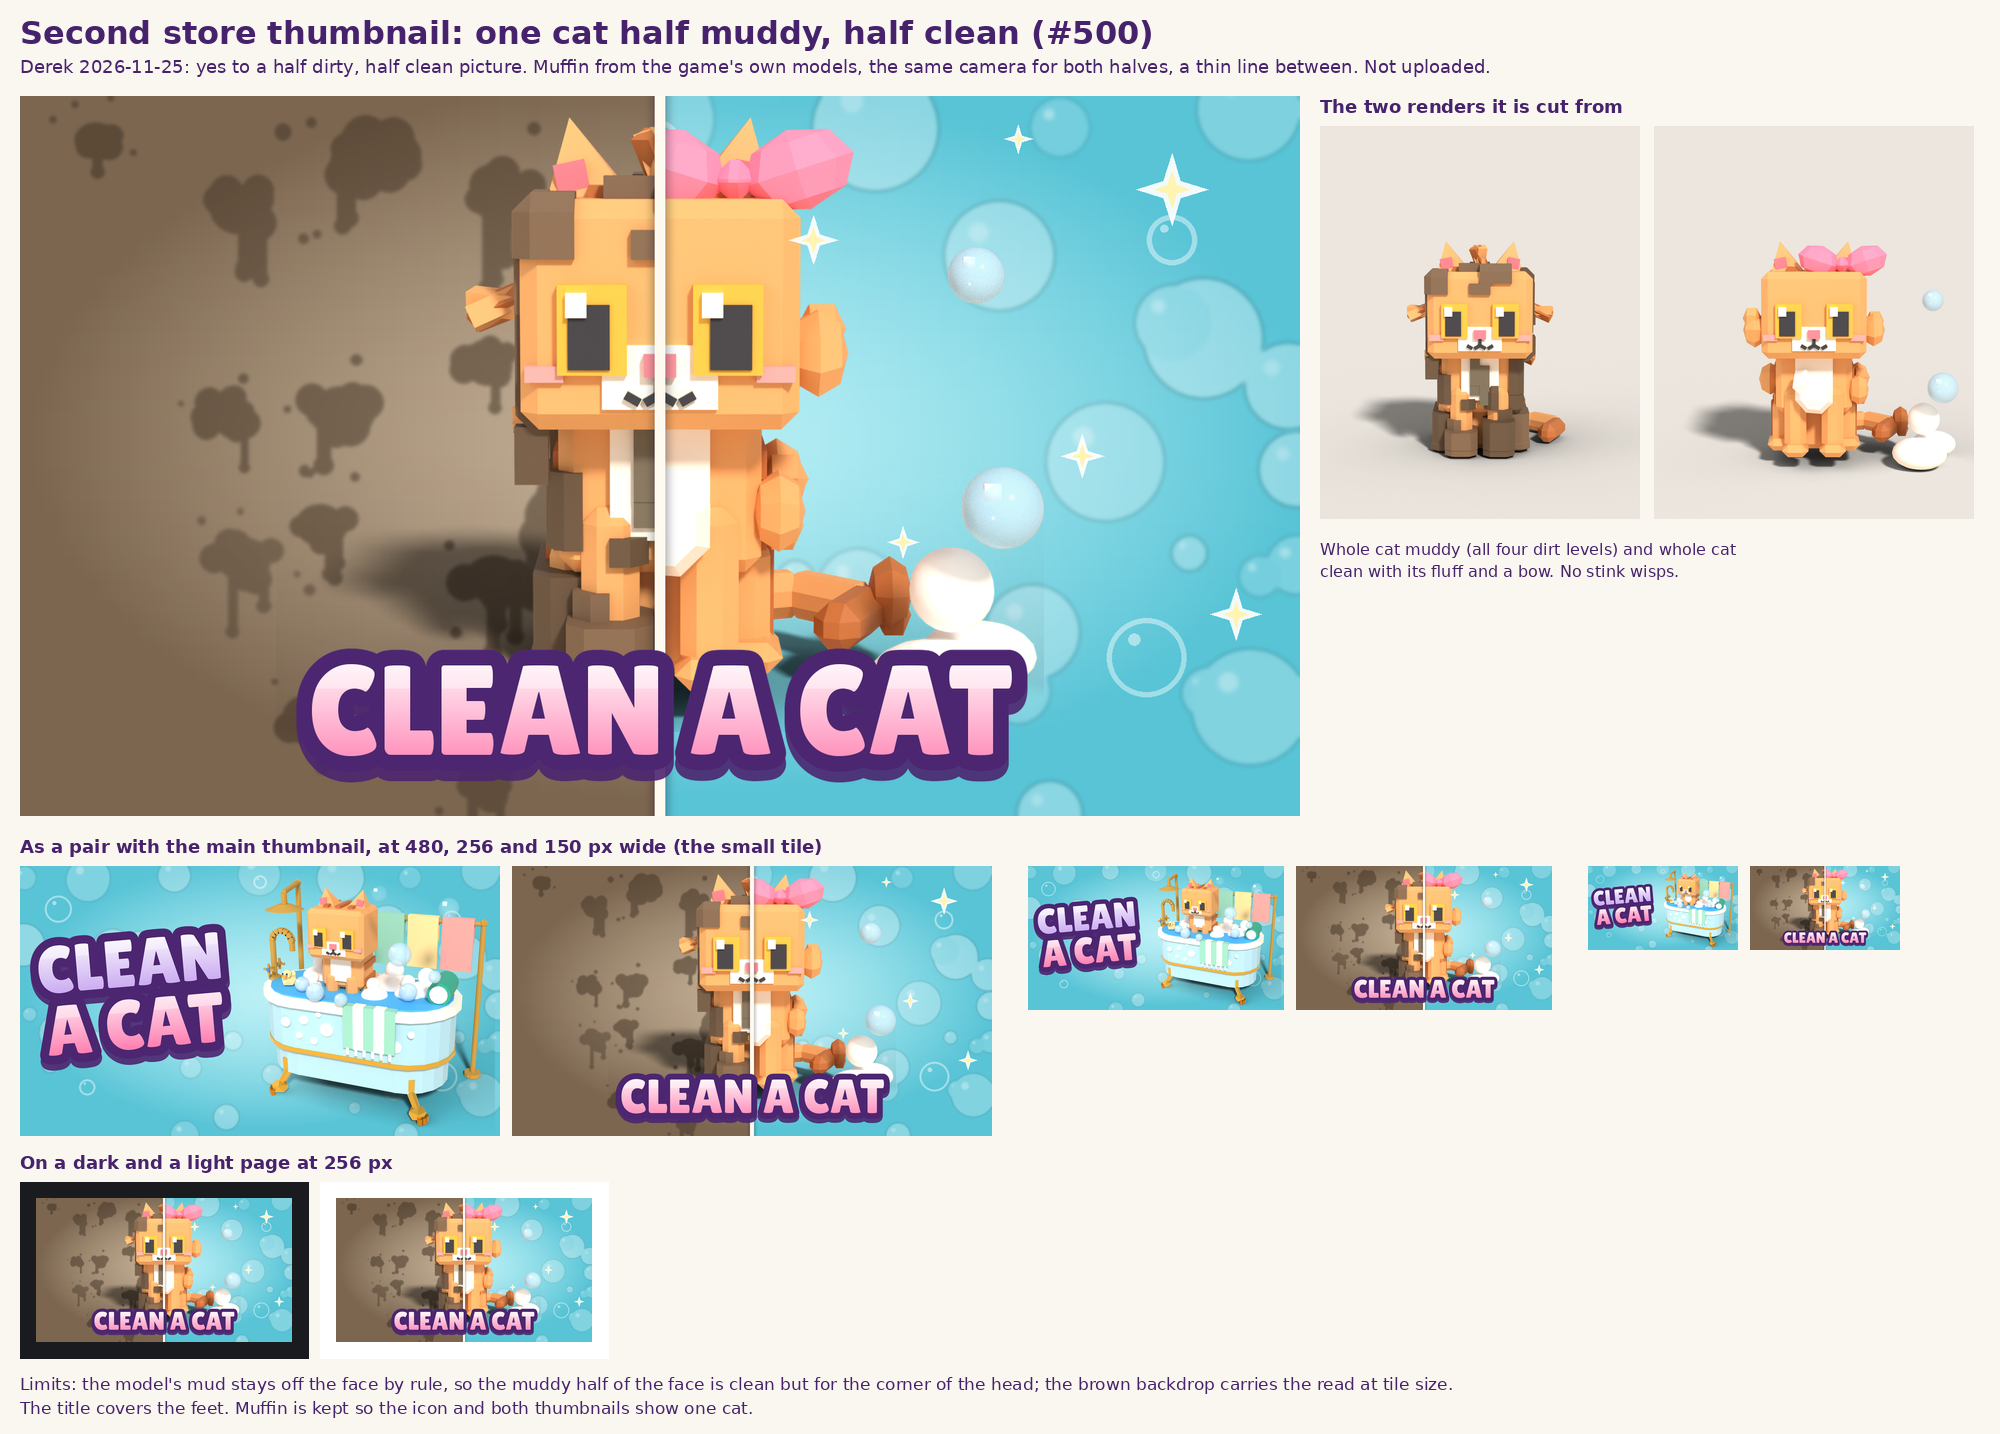
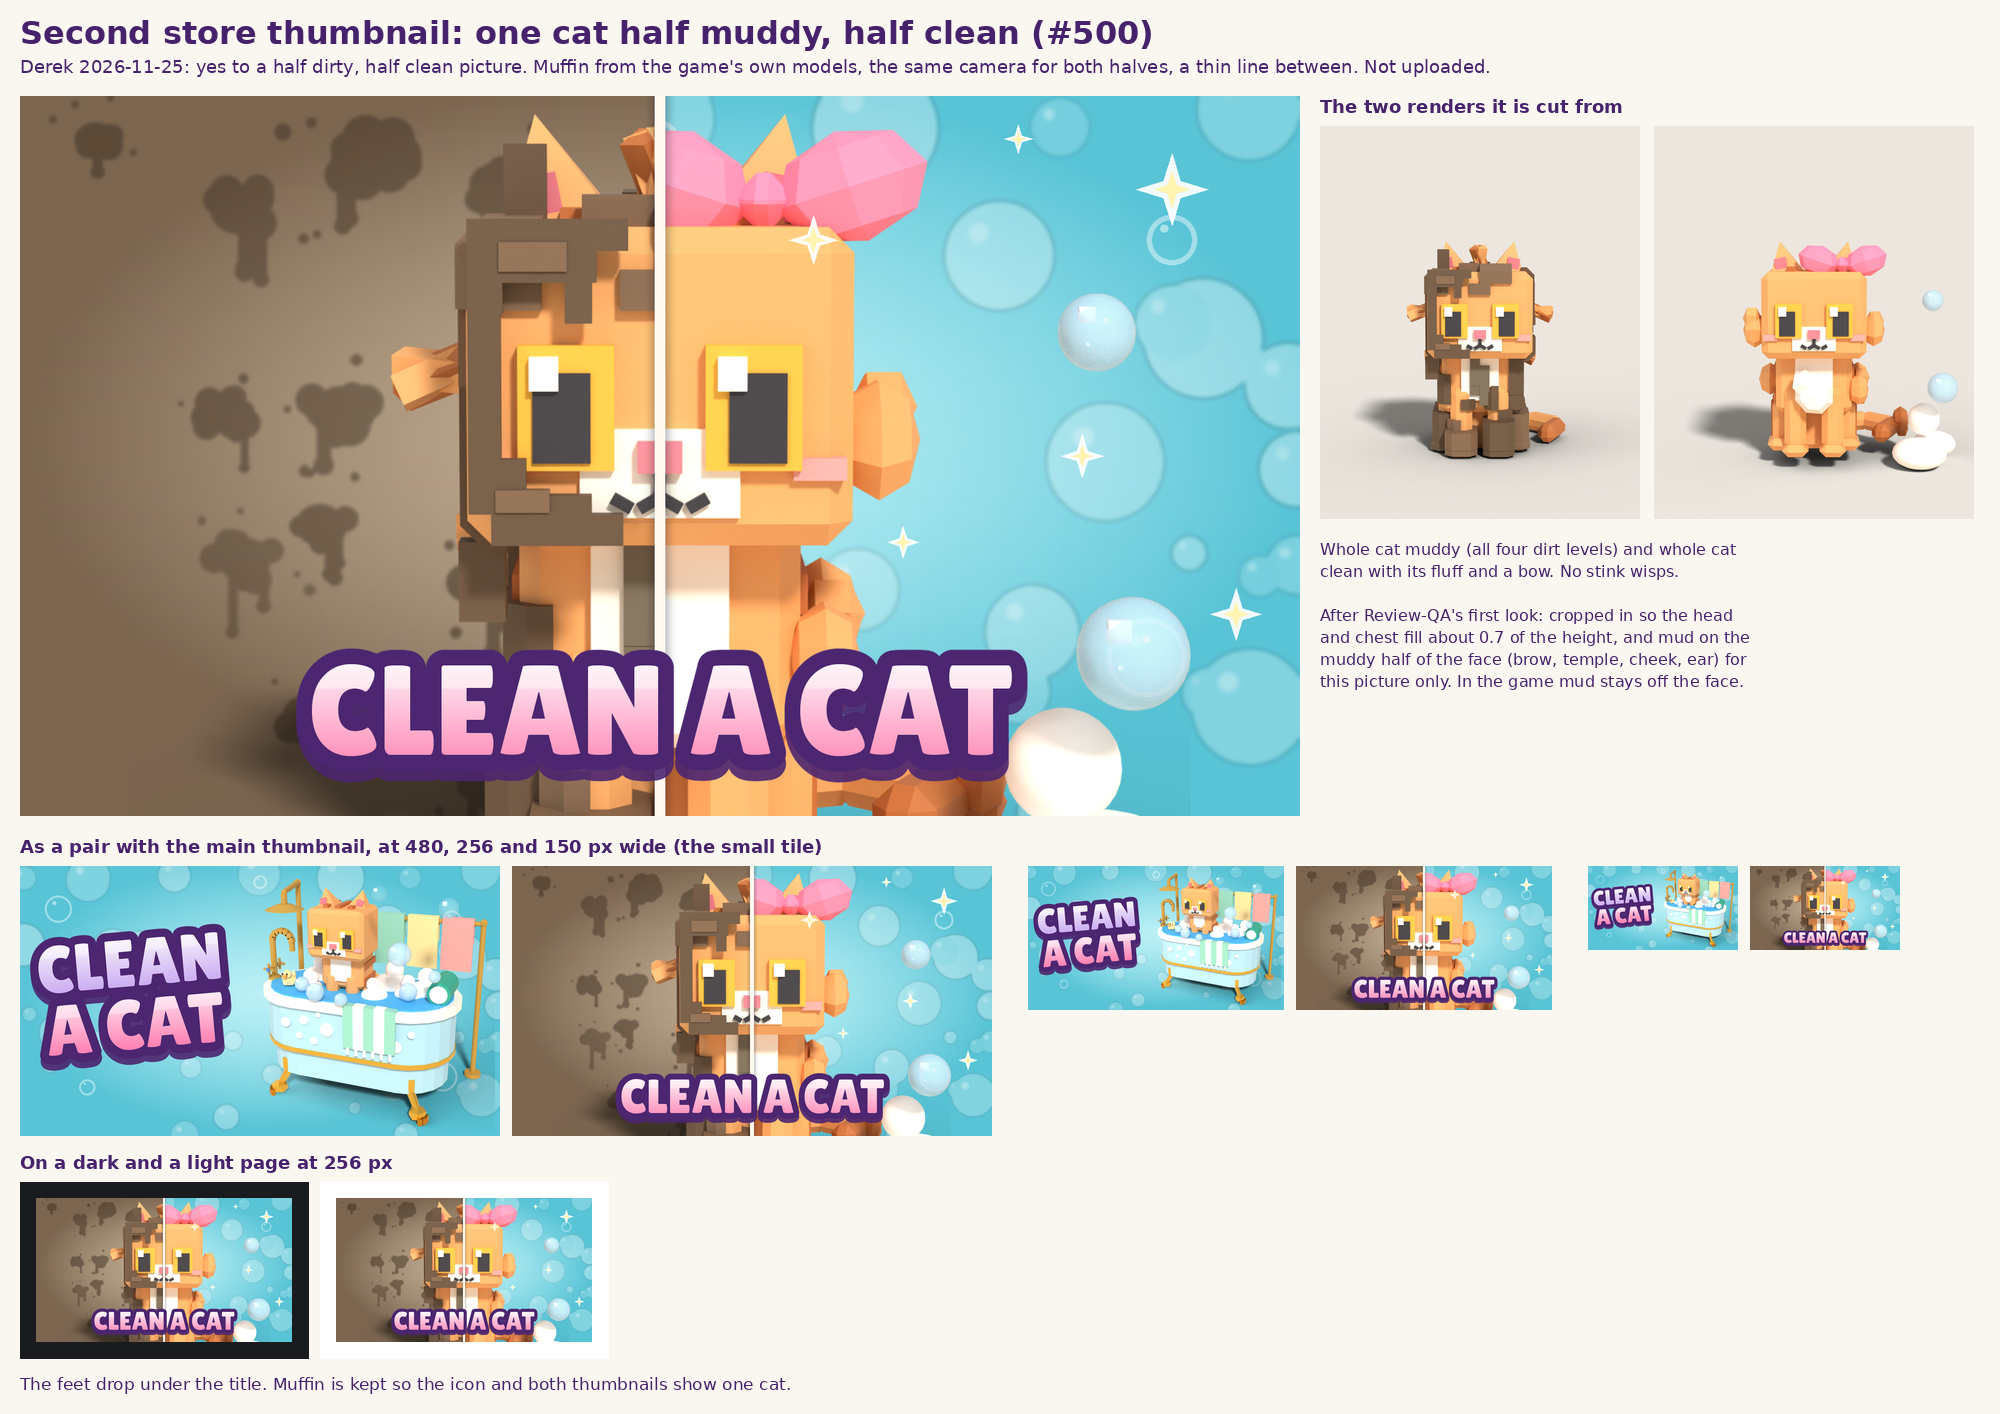
Split thumbnail: closer crop and mud on the muddy half of the face (#500)
Review-QA's two fixes: the head and chest fill about 0.7 of the height with
the feet under the title, and store-only mud patches on the brow, temple,
cheek and ear of the muddy half.

Claude-Session: https://claude.ai/code/session_01DW2up3E6M21fYJtCcCtEdr

diff --git a/assets/clean-a-cat/blender/store_art.py b/assets/clean-a-cat/blender/store_art.py
@@ -473,6 +473,36 @@ def thumb_queue(mat, out, res):
     return render(objs, objs, out, res, az=4, el=12, margin=0.98, lens=45)
 
 
+def _face_mud(mat, cat):
+    """Mud on the muddy half of the face, for the split thumbnail only (Review-QA on #500). In the game mud stays
+    off the face so the cat reads while it is washed; in this picture a clean face weakens the split. Flat stepped
+    splats in the model's two mud shades on the cat's right (-X) half: over the brow, down the temple beside the eye,
+    across the cheek under it, and a smear on the ear. The eye stays clear. No two patches overlap."""
+    part = {k: next(o for o in cat if o.name.endswith(k)) for k in ("_Head", "_Eye2", "_EarR")}
+    (hlo, hhi), (elo, ehi), (rlo, rhi) = (common.bounds([part[k]]) for k in ("_Head", "_Eye2", "_EarR"))
+    y, t = hlo.y - 0.012, 0.035                           # just proud of the face
+    b = Builder()
+
+    def patch(x0, x1, z0, z1, sw="mud", proud=0.0):
+        b.box(((x0 + x1) / 2, y - proud, (z0 + z1) / 2), (x1 - x0, t, z1 - z0), sw, bevel=False)
+
+    xe, top, bot = hlo.x + 0.012, hhi.z - 0.015, hlo.z + 0.02    # the face's outer edge, top and bottom
+    c = 0.07                                               # one step of a splat
+    patch(xe, -0.07, top - c, top)                                         # the brow: three steps in from the corner
+    patch(xe, -0.14, top - 2 * c, top - c)
+    patch(xe, elo.x - 0.03, top - 3 * c, top - 2 * c)
+    patch(-0.21, -0.15, top - 2 * c - 0.09, top - 2 * c)                   # a short drip over the eye
+    patch(xe, elo.x - 0.035, elo.z + 0.03, top - 3 * c)                    # down the temple beside the eye
+    patch(xe, elo.x + 0.02, elo.z - 0.05, elo.z + 0.03)                    # round under its corner
+    patch(xe, ehi.x - 0.05, bot + c, elo.z - 0.05)                         # the cheek: two steps
+    patch(xe + 0.05, ehi.x + 0.02, bot, bot + c)
+    patch(xe + 0.07, xe + 0.22, top - 0.115, top - 0.05, "mud_wet", 0.006)  # wet shine
+    patch(xe + 0.06, xe + 0.18, bot + 0.075, bot + 0.125, "mud_wet", 0.006)
+    ex = (rlo.x + rhi.x) / 2                              # outer edge; its outline stays a cat's ear
+    b.box((ex - 0.075, rlo.y - 0.008, rlo.z + 0.14), (0.1, 0.03, 0.2), "mud", bevel=False)    # a smear up the ear's
+    return _fresh([b.finalize("FaceMud", mat, bevel=0)])
+
+
 def _split(mat, out, res, state):
     """One half of the split thumbnail (#500): Muffin sitting, seen straight on and close, with the camera on its
     middle line. `state` 'dirty' is the whole cat muddy, 'clean' the whole cat fluffy with a bow by its ear, lather
@@ -486,14 +516,15 @@ def _split(mat, out, res, state):
     half = max(-lo.x, hi.x) + 0.5
     focus = (Vector((-half, lo.y, 0.0)), Vector((half, hi.y, hi.z + 0.4)))
     objs = list(cat)
+    if state == "dirty":
+        objs += _face_mud(mat, cat)
     if state == "clean":
         spec = cats.ROSTER["Muffin"]
         k = cats.scale_of(spec, "sit")
-        h = cats.dims(spec, "sit")["head"]
         at = Vector(cats.joints(spec, "sit")["Head"]) + Vector(cats.bow_at(spec, "sit")) * k
-        at.x += h["s"][0] * k * 0.27                     # by the ear on the clean half: a whole bow, not half of one
-        bow = props.build_bow(list(props.BOWS)[0], mat)
-        _move(bow, at, 1.0, -8)
+        at.x += cats.dims(spec, "sit")["head"]["s"][0] * k * 0.27   # by the ear on the clean half: a whole bow, not
+        bow = props.build_bow(list(props.BOWS)[0], mat)             # half of one (tipped out on the corner like a
+        _move(bow, at, 1.0, -8)                                     # special cat's, it stopped reading as a bow)
         objs += _fresh(bow)
         fm = Builder()
         for x, y, r in ((hi.x + 0.12, -0.3, 0.24), (hi.x + 0.3, 0.05, 0.2)):

diff --git a/assets/clean-a-cat/blender/store_compose.py b/assets/clean-a-cat/blender/store_compose.py
@@ -375,9 +375,10 @@ def compose_split(raw_dir, final=False):
     box = art.getchannel("A").point(lambda a: 255 if a > 60 else 0).getbbox()
     reach = max(rm - box[0], box[2] - rm)                  # crop evenly about the middle line, so it stays central
     art = art.crop((rm - reach, box[1], rm + reach, box[3]))
-    k = min(w * 0.6 / art.width, h * 0.9 / art.height)
-    art = art.resize((int(art.width * k) // 2 * 2, int(art.height * k)), Image.LANCZOS)
-    top = int(h * 0.03)
+    solid = dirty.getchannel("A").point(lambda a: 255 if a >= 250 else 0).getbbox()   # the cat without its shadow
+    k = h * 1.1 / (solid[3] - solid[1])                    # close: the head and chest fill about 0.7 of the height
+    art = art.resize((int(art.width * k) // 2 * 2, int(art.height * k)), Image.LANCZOS)   # and the feet drop under
+    top = int(h * 0.025)                                   # the title and out of the frame (Review-QA on #500)
     bg.alpha_composite(art, (mid - art.width // 2, top))
     fx = Image.new("RGBA", size, (0, 0, 0, 0))
     d = ImageDraw.Draw(fx)

diff --git a/docs/concepts/clean-a-cat/README.md b/docs/concepts/clean-a-cat/README.md
@@ -88,4 +88,4 @@ HUD source page: `assets/clean-a-cat/ui/hud.html`. Plans: issues #5 (first sessi
 - `2026-11-25-special-cats-pieces.png`: the check sheet for #486: the six special cats before and after their built-in pieces (a head piece, a back piece and lit parts each), walking, from behind and sitting, the card picture before and after at 140 and 64 px on three backgrounds, the card picture at each dirt level, three in the roofless royal carrier beside a townsperson, two in the wash tub, each with a bow on its corner spot, and the triangle and part counts.
 - `2026-11-25-stardust-solid-stars.png`: the check sheet for #491: Stardust in the game's wash camera before (the cream Neon star clipped to white, Sync-Agent's capture), in Blender before and after with the stars solid and the glow kept to seven small deep coloured gems, from five sides, with a bow, and the card picture before and after at 140 and 64 px and at each dirt level.
 - `2026-11-25-special-cats-deep-glow.png`: the check sheet for #496: Rosette, Jade and Bathtile before and after their last pale Neon accents went to deep gold, deep sky and deep mint (the same rule as Stardust), from four sides, with the card picture before and after at 140 and 64 px.
-- `2026-11-25-store-thumbnail-split.png` (1920 x 1080): the second store thumbnail (#500; the owner on 2026-11-25: yes to a half dirty, half clean picture). One Muffin seen straight on: the picture's left half is the muddy cat on a drab brown backdrop with mud splats, its right half the clean, fluffy cat with a bow on the teal bubble backdrop with sparkles, a thin cream line between and CLEAN A CAT on one line across the bottom. Both halves are renders of the game's own models from one camera. No stink wisps. Not uploaded. `2026-11-25-store-thumbnail-split-check.png` is its check sheet: the two renders it is cut from, the pair with the main thumbnail at 480, 256 and 150 px, and on a dark and a light page.
+- `2026-11-25-store-thumbnail-split.png` (1920 x 1080): the second store thumbnail (#500; the owner on 2026-11-25: yes to a half dirty, half clean picture). One Muffin seen straight on: the picture's left half is the muddy cat on a drab brown backdrop with mud splats, its right half the clean, fluffy cat with a bow on the teal bubble backdrop with sparkles, a thin cream line between and CLEAN A CAT on one line across the bottom. Both halves are renders of the game's own models from one camera, cropped close so the head and chest fill about 0.7 of the height and the feet drop under the title. The muddy half has mud on the face too (brow, temple, cheek and a smear on the ear), built for this picture only: in the game mud stays off the face (Review-QA on #500). No stink wisps. Not uploaded. `2026-11-25-store-thumbnail-split-check.png` is its check sheet: the two renders it is cut from, the pair with the main thumbnail at 480, 256 and 150 px, and on a dark and a light page.
